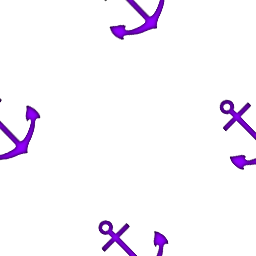
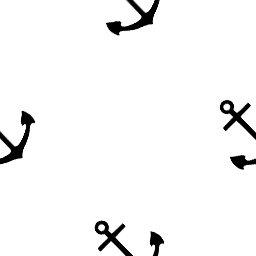
feat: added scrolling backgrounds to containers

diff --git a/index.html b/index.html
@@ -17,10 +17,12 @@
         </section>
 
         <!-- cool intro heading with quote and interests -->
-        <section class="heading">
-            <h1>Shaurya Kumar</h1>
-            <h2>"Write your self...Only then will the immense resources of the unconscious spring forth."</h2>
-            <h2>Full Stack Development, Platform Engineering, Mobile Robotics, Game Development</h2>
+        <section class="heading_container">
+            <section class="heading">
+                <h1>Shaurya Kumar</h1>
+                <h2>"Write your self...Only then will the immense resources of the unconscious spring forth."</h2>
+                <h2>Full Stack Development, Platform Engineering, Mobile Robotics, Game Development</h2>
+            </section>
         </section>
 
         <!-- all my personal info, including name and programming languages and a slideshow of all my clubs-->
@@ -71,24 +73,26 @@
             </section>
         </section>
         <!-- current clubs/work slideshow with links-->
-        <div class="slideshow">
-            <div class="slide fade-anim">
-                <a target="_blank" href="https://www.nyurobomaster.com/home"><img src="assets/UltraViolet_Logo.png"></a>
-                <div class="caption">RoboMasters Team UltraViolet</div>
-            </div>
+        <section class="slideshow_container">
+            <div class="slideshow">
+                <div class="slide fade-anim">
+                    <a target="_blank" href="https://www.nyurobomaster.com/home"><img src="assets/UltraViolet_Logo.png"></a>
+                    <div class="caption">RoboMasters Team UltraViolet</div>
+                </div>
 
-            <div class="slide fade-anim">
-                <a href="https://gonyuathletics.com/sports/2022/7/26/egaming.aspx" target="_blank"><img src="assets/esports_logo.png"></a>
-                <div class="caption">NYU eSports</div>
-            </div>
+                <div class="slide fade-anim">
+                    <a href="https://gonyuathletics.com/sports/2022/7/26/egaming.aspx" target="_blank"><img src="assets/esports_logo.png"></a>
+                    <div class="caption">NYU Esports</div>
+                </div>
 
-            <div class="slide fade-anim">
-                <a href="https://engage.nyu.edu/organization/poly-gaming-network" target="_blank"><img src="assets/discord480.png"></a>
-                <div class="caption">Poly Gaming Network</div>
+                <div class="slide fade-anim">
+                    <a href="https://engage.nyu.edu/organization/poly-gaming-network" target="_blank"><img src="assets/discord480.png"></a>
+                    <div class="caption">Poly Gaming Network</div>
+                </div>
+                <a class="prev" onclick="nextSlide(1)">&#10094;</a>
+                <a class="next" onclick="nextSlide(-1)">&#10095;</a>
             </div>
-            <a class="prev" onclick="nextSlide(1)">&#10094;</a>
-            <a class="next" onclick="nextSlide(-1)">&#10095;</a>
-        </div>
+        </section>
 
         <!-- each projects section houses up to 4 projects for display-->
         <section class="projects">

diff --git a/index.css b/index.css
@@ -6,18 +6,56 @@
     --whitest: #FCFBF4;
 }
 
+@keyframes fade {
+    from {
+        opacity: .4
+    }
+    to {
+        opacity: 1
+    }
+}
+
+@keyframes pan_bg {
+    0% {
+        background-position: 0% 0%;
+    }
+    100% {
+        background-position: 100% 0%;
+    }
+}
+
+@keyframes pan_bg_2 {
+    0% {
+        background-position: 25% 0%;
+    }
+    100% {
+        background-position: 125% 0%;
+    }
+}
+
 body, html {
     background-color: var(--darkgrey);
     height: 100%;
+}
+
+.heading_container {
+    background: radial-gradient(rgb(var(--highlight-two)), rgb(var(--darkgrey)));;
+    height: 20%;
+    overflow: hidden;
+    position: relative;
 }
 
 .heading {
     display: flex;
     flex-direction: column;
     align-items:center;
-    background-color: var(--darkgrey);
+    background-image: url("assets/triforce_repeat.png");
+    background-size: 10%;
+    background-blend-mode: lighten;
+    animation: pan_bg 180s linear infinite;
     height: auto;
-    width: auto;
+    width: 100%;
+    position: absolute;
 }
 
 .heading > h1 {
@@ -60,11 +98,21 @@ body, html {
 
 }
 
-.slideshow {
+.slideshow_container {
+    background: var(--highlight-two);
+    height: 20%;
+    overflow: hidden;
     position: relative;
+}
+
+.slideshow {
+    position: absolute;
+    width: 100%;
     margin: auto;
     flex: 1 300px;
-    background-color: var(--highlight-two);
+    background-image: url(assets/anchor_repeat.png);
+    background-size: 10%;
+    animation: pan_bg_2 180s linear infinite;
 }
 
 .slide {
@@ -87,21 +135,11 @@ body, html {
 
 .caption {
     background-color: var(--whitest);
+    font: 20px "Alata", Verdana, sans-serif
 }
 
 .fade-anim {
     animation: fade 1.5s;
-}
-
-@keyframes fade {
-    from 
-    {
-        opacity: .4
-    }
-    to 
-    {
-        opacity: 1
-    }
 }
 
 .slide > a > img {

diff --git a/index.js b/index.js
@@ -1,4 +1,4 @@
-let index = 1;
+let index = 0;
 
 function nextSlide(i)
 {
